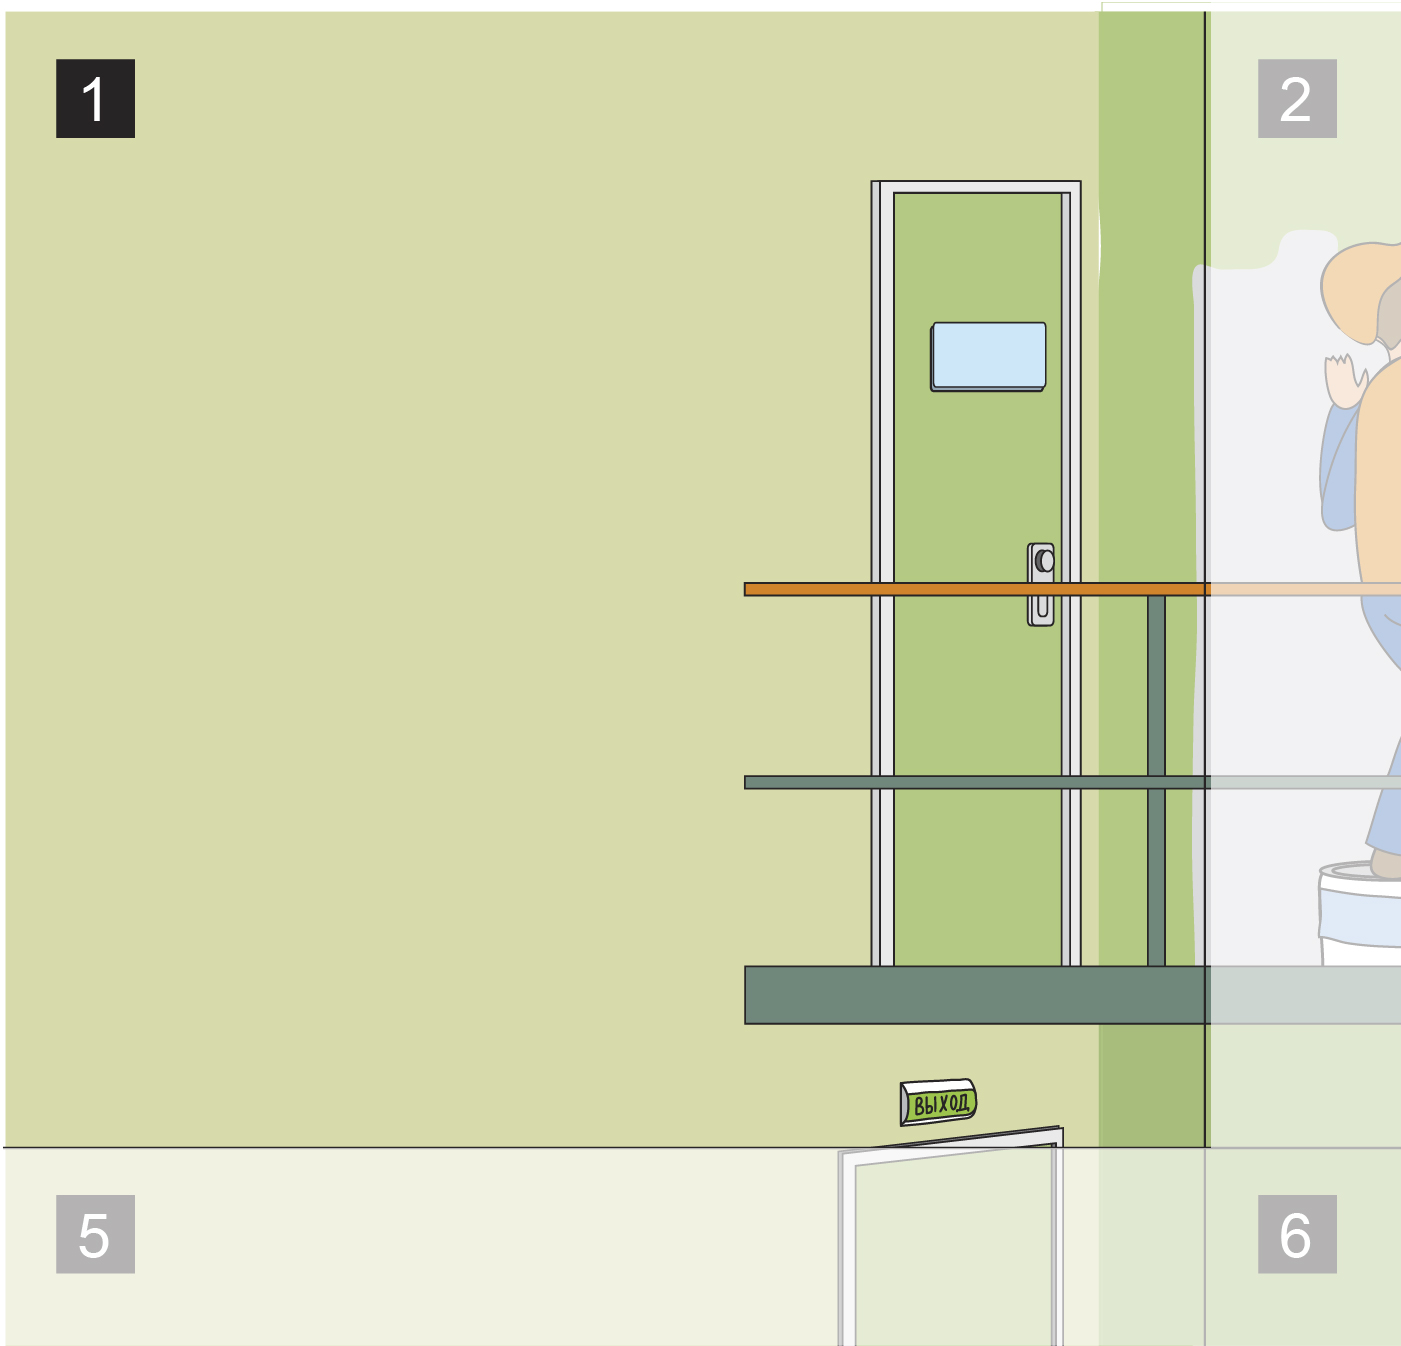
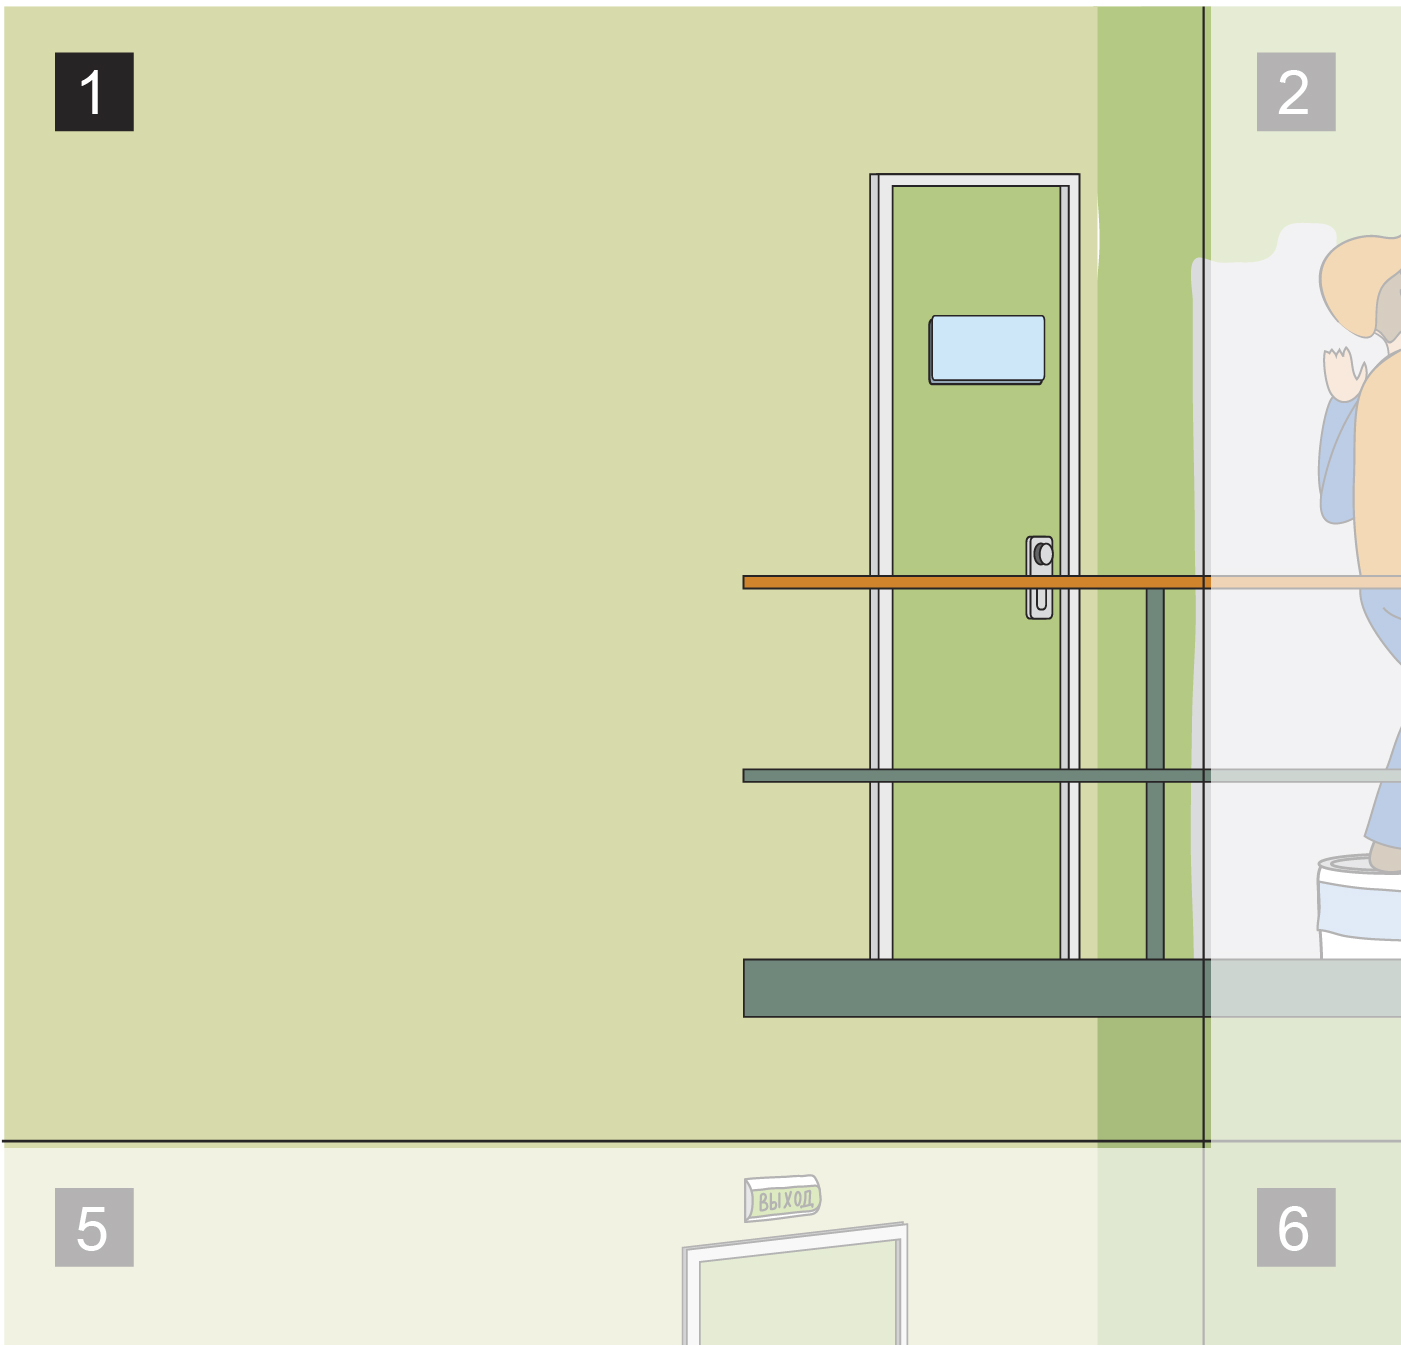
renewed images in office riskMap, added noscript

diff --git a/src/main/resources/templates/game/riskMap.html b/src/main/resources/templates/game/riskMap.html
@@ -8,6 +8,7 @@
     <title>МОЗ | Карта рисков</title>
 </head>
 <body class="risk-map-body">
+    <noscript th:replace="appFragments :: noscript"></noscript>
     <div th:replace="appFragments :: preloader"></div>
     <div class="container">
         <div th:replace="game/fragments :: header(${commandName},${gameSession.currentRoundIndex})"></div>
@@ -58,7 +59,7 @@
                                  th:id="${iter.index / 4 + '' + iter.index % 4 + '-small-img'}"
                                  class="risk-small-img animated scale-on-hover">-->
                             <img th:fragment="smallImg"
-                                 th:src="@{|/assets/image/riskMap/temporal_new_office/low_2000/low_2000_${#numbers.formatInteger(iter.count, 2)}.jpg|}" alt=""
+                                 th:src="@{|/assets/image/riskMap/office/low_2000/small_${#numbers.formatInteger(iter.count, 2)}.jpg|}" alt=""
                                  th:id="${iter.index / 4 + '' + iter.index % 4 + '-small-img'}"
                                  class="risk-small-img animated scale-on-hover">
                             <div class="risk-indicator hidden no-answer"

diff --git a/src/main/resources/templates/game/brief.html b/src/main/resources/templates/game/brief.html
@@ -8,6 +8,7 @@
     <title>МОЗ Бриф</title>
 </head>
 <body th:with="currentPhaseNumber = ${gameSession.currentPhaseNumber}">
+    <noscript th:replace="appFragments :: noscript"></noscript>
     <div th:replace="appFragments :: preloader"></div>
     <div class="container">
         <div th:replace="game/fragments :: header (${commandName}, ${gameSession.currentRoundIndex})"></div>

diff --git a/src/main/resources/static/assets/css/app.css b/src/main/resources/static/assets/css/app.css
@@ -182,7 +182,7 @@ body {
     justify-content: center;
     align-content: center;
     background-color: #4E3549;
-    z-index: 10;
+    z-index: 9;
 }
 
 .preloader svg {
